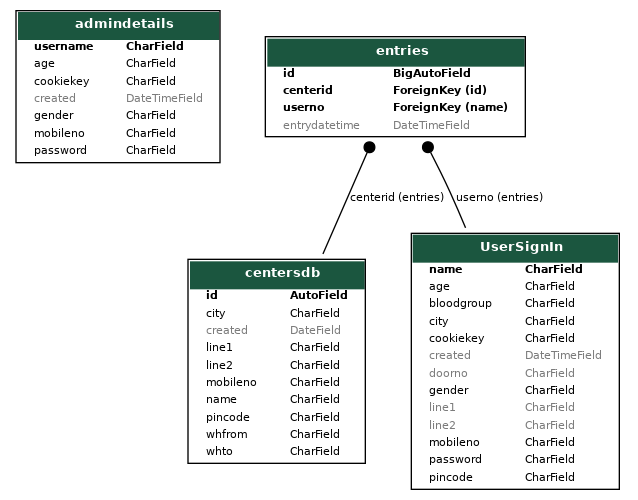
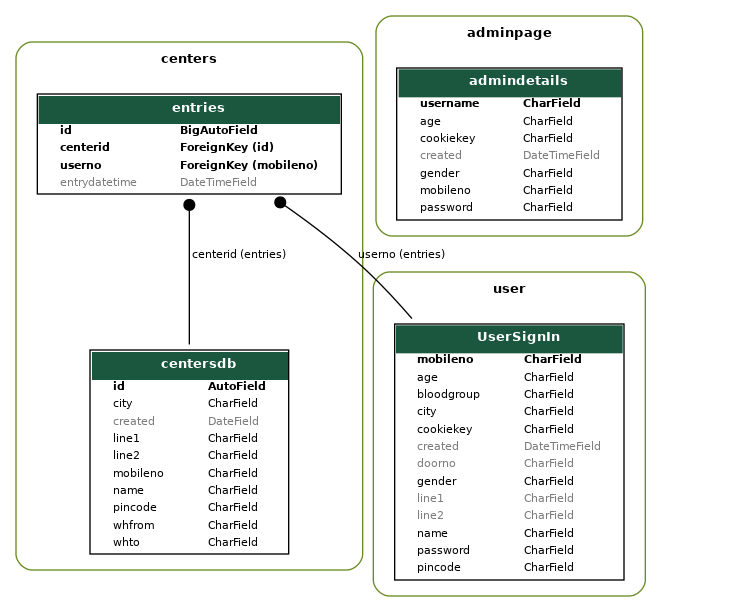
changed readme, added adminsignup, templates, views

Changed region(s): [[0.0, 0.0, 0.9828, 0.99], [0.4169, 0.36, 0.4467, 0.39]]

diff --git a/templates/User/userhome.html b/templates/User/userhome.html
@@ -40,12 +40,12 @@
                 <div >Address: <br> {{row.line1}}, {{row.line2}}, {{row.city}}, {{row.pincode}} </div>
                 <div > {{row.mobileno}} </div>
                 <div >{{row.whfrom}} to {{row.whto}}</div>
-                <div class="vacancy">Vacancy: {{rows.count}}</div> 
-                {% comment %} {% if count < 10 %} {% endcomment %}
+                <div class="vacancy">Vacancy: {{row.count}}</div> 
+                {% if row.count > 0 %}
                     <button name="book" value={{row.id}} type='submit'>Book</button>
-                {% comment %} {% else %}
+                {% else %}
                 <button disabled>Full</button>
-                {% endif %} {% endcomment %}
+                {% endif %} 
             </form>    
             <br>
         {% endfor %}

diff --git a/templates/Admin/adminsignup.html b/templates/Admin/adminsignup.html
@@ -1,0 +1,11 @@
+<h1>Admin Signup</h1>
+<form method="POST">
+    {% csrf_token %}
+    Username:<input type="text" name='username' maxlength='50' required><br>
+    Mobile no:<input type="text" name='mobileno' maxlength='10' required><br>
+    Password:<input type="password" name='password' maxlength='50' required><br>
+    age:<input type="text" name='age' maxlength='50' required><br>
+    gender:<input type="text" name='gender' maxlength='1' required><br>
+    <input type="submit">
+    <input type="reset">
+</form>

diff --git a/templates/Admin/adminsignin.html b/templates/Admin/adminsignin.html
@@ -15,6 +15,10 @@
     <input type="password" name="password" placeholder="Enter Password" required>
     <input type="submit" value='Sign In'>
 </form>
+<div class="signup">
+    Not yet signed up? 
+    <a href="{% url 'adminsignup' %}"><b>Sign Up</b></a>
+  </div>
 <div class="adminpage" style="position:absolute; right:0; bottom:0;">
     You are a User?
     <a href="{% url 'usersignin' %}"><b>SignIn Here</b></a>

diff --git a/templates/User/usersignin.html b/templates/User/usersignin.html
@@ -15,7 +15,7 @@
   <input class="w-100 btn btn-lg btn-success" type="submit" value="Sign In">
 </form>
 <div class="signup">
-  Not up signed up? 
+  Not yet signed up? 
   <a href="{% url 'usersignup' %}"><b>Sign Up</b></a>
 </div>
 <div class="adminpage" style="position:absolute; right:0; bottom:0;">

diff --git a/templates/User/usersignup.html b/templates/User/usersignup.html
@@ -1,3 +1,4 @@
+<h1>User Signup</h1>
 <form method="POST">
     {% csrf_token %}
     Name*:<input type="text" name='name' maxlength='50' required><br>

diff --git a/centers/models.py b/centers/models.py
@@ -1,6 +1,7 @@
 from django.db import models
 from user.models import UserSignIn
-
+import pytz
+from django.utils import timezone
 # Create your models here.
 
 class centersdb(models.Model):
@@ -13,10 +14,24 @@ class centersdb(models.Model):
     pincode = models.CharField(max_length=6)
     whfrom = models.CharField(max_length=8)
     whto = models.CharField(max_length=8)
-    created = models.DateField(auto_now_add=True)
+    created = models.DateField(auto_now_add=True, verbose_name='EntryDateTime')
+    def save(self, *args, **kwargs):
+        tz = pytz.timezone('Asia/Kolkata')  # Set the desired timezone
+        current_datetime = timezone.now().astimezone(tz)
+        self.created = current_datetime
+        super().save(*args, **kwargs)
+    def __str__(self):
+        return str(self.id)
     
 class entries(models.Model):
     centerid = models.ForeignKey(centersdb, on_delete=models.CASCADE)
     userno = models.ForeignKey(UserSignIn, on_delete=models.CASCADE)
-    entrydatetime = models.DateTimeField(auto_now_add=True)
-     
+    entrydatetime = models.DateTimeField(auto_now_add=True, verbose_name='EntryDateTime')
+    def save(self, *args, **kwargs):
+        tz = pytz.timezone('Asia/Kolkata')  # Set the desired timezone
+        current_datetime = timezone.now().astimezone(tz)
+        self.entrydatetime = current_datetime
+        super().save(*args, **kwargs)
+    def __str__(self):
+        return str(self.entrydatetime)
+    

diff --git a/centers/views.py b/centers/views.py
@@ -14,9 +14,26 @@ def matchingrows(search_string):
         Q(city__icontains=search_string) |
         Q(pincode__icontains=search_string) 
     )
-    
+    res = []
     today = date.today()
-    #count = entries.objects.filter(entrydatetime__date=today, centerid=rows.id)
-    return rows
+    for i in range(len(rows)):
+        count = entries.objects.filter(Q(entrydatetime__date=today), centerid=rows[i].id)
+        res.append(
+                {'id':rows[i].id,
+                'name':rows[i].name,
+                'mobileno':rows[i].mobileno,
+                'line1':rows[i].line1,
+                'line2':rows[i].line2,
+                'city':rows[i].city,
+                'pincode':rows[i].pincode,
+                'whfrom':rows[i].whfrom,
+                'whto':rows[i].whto,
+                'count': 10-count.count()}
+                )
+        # return [today, count[i].entrydatetime.date()]
+        # count = entries.objects.filter(entrydatetime__date=today, centerid=rows[i].id)
+        # rows[i]['count'] = count
+    return res
+    
     
     

diff --git a/adminpage/views.py b/adminpage/views.py
@@ -75,6 +75,29 @@ def adminsignin(request):
             
     return render(request, 'Admin/adminsignin.html')
 
+def adminsignup(request):
+    if request.method == 'POST':
+        username = request.POST.get('username')
+        mobileno = request.POST.get('mobileno')
+        password = request.POST.get('password')
+        age = request.POST.get('age')
+        gender = request.POST.get('gender')
+        try:
+            c = admindetails.objects.create(
+                username=username,
+                mobileno=mobileno,
+                password = hash_password(password),
+                age = age,
+                gender = gender,
+                )
+            c.save()
+            messages.info(request, 'Successfully created')
+        except:
+            messages.error(request, 'Admin already exist please login')
+        return redirect('adminsignin')
+    return render(request, 'Admin/adminsignup.html')
+
+
 def adminlogout(request):
     response = HttpResponseRedirect('adminsignin')
     try:

diff --git a/adminpage/models.py b/adminpage/models.py
@@ -1,5 +1,6 @@
 from django.db import models
-
+import pytz
+from django.utils import timezone
 # Create your models here.
 class admindetails(models.Model):
     username = models.CharField(max_length=100, primary_key=True)
@@ -8,7 +9,12 @@ class admindetails(models.Model):
     cookiekey = models.CharField(max_length=45, default='0')
     age = models.CharField(max_length=2)
     gender = models.CharField(max_length=1)
-    created = models.DateTimeField(auto_now_add=True)
+    created = models.DateTimeField(auto_now_add=True, verbose_name='EntryDateTime')
+    def save(self, *args, **kwargs):
+        tz = pytz.timezone('Asia/Kolkata')  # Set the desired timezone
+        current_datetime = timezone.now().astimezone(tz)
+        self.created = current_datetime
+        super().save(*args, **kwargs)
     def __str__(self) -> str:
         return self.username
     

diff --git a/user/models.py b/user/models.py
@@ -1,4 +1,6 @@
 from django.db import models
+import pytz
+from django.utils import timezone
 
 # Create your models here.
 
@@ -15,7 +17,12 @@ class UserSignIn(models.Model):
     line2 = models.CharField(max_length=50, blank=True, null=True)
     city = models.CharField(max_length=50)
     pincode = models.CharField(max_length=6)
-    created = models.DateTimeField(auto_now_add=True)
+    created = models.DateTimeField(auto_now_add=True, verbose_name='EntryDateTime')
+    def save(self, *args, **kwargs):
+        tz = pytz.timezone('Asia/Kolkata')  # Set the desired timezone
+        current_datetime = timezone.now().astimezone(tz)
+        self.created = current_datetime
+        super().save(*args, **kwargs)
     def __str__(self) -> str:
         return self.name
     

diff --git a/centers/migrations/0006_alter_centersdb_created_alter_entries_entrydatetime.py b/centers/migrations/0006_alter_centersdb_created_alter_entries_entrydatetime.py
@@ -1,0 +1,23 @@
+# Generated by Django 4.2.1 on 2023-05-23 07:09
+
+from django.db import migrations, models
+
+
+class Migration(migrations.Migration):
+
+    dependencies = [
+        ('centers', '0005_entries_userno'),
+    ]
+
+    operations = [
+        migrations.AlterField(
+            model_name='centersdb',
+            name='created',
+            field=models.DateField(auto_now_add=True, verbose_name='EntryDateTime'),
+        ),
+        migrations.AlterField(
+            model_name='entries',
+            name='entrydatetime',
+            field=models.DateTimeField(auto_now_add=True, verbose_name='EntryDateTime'),
+        ),
+    ]

diff --git a/user/migrations/0007_alter_usersignin_created.py b/user/migrations/0007_alter_usersignin_created.py
@@ -1,0 +1,18 @@
+# Generated by Django 4.2.1 on 2023-05-23 07:09
+
+from django.db import migrations, models
+
+
+class Migration(migrations.Migration):
+
+    dependencies = [
+        ('user', '0006_alter_usersignin_mobileno_alter_usersignin_name'),
+    ]
+
+    operations = [
+        migrations.AlterField(
+            model_name='usersignin',
+            name='created',
+            field=models.DateTimeField(auto_now_add=True, verbose_name='EntryDateTime'),
+        ),
+    ]
